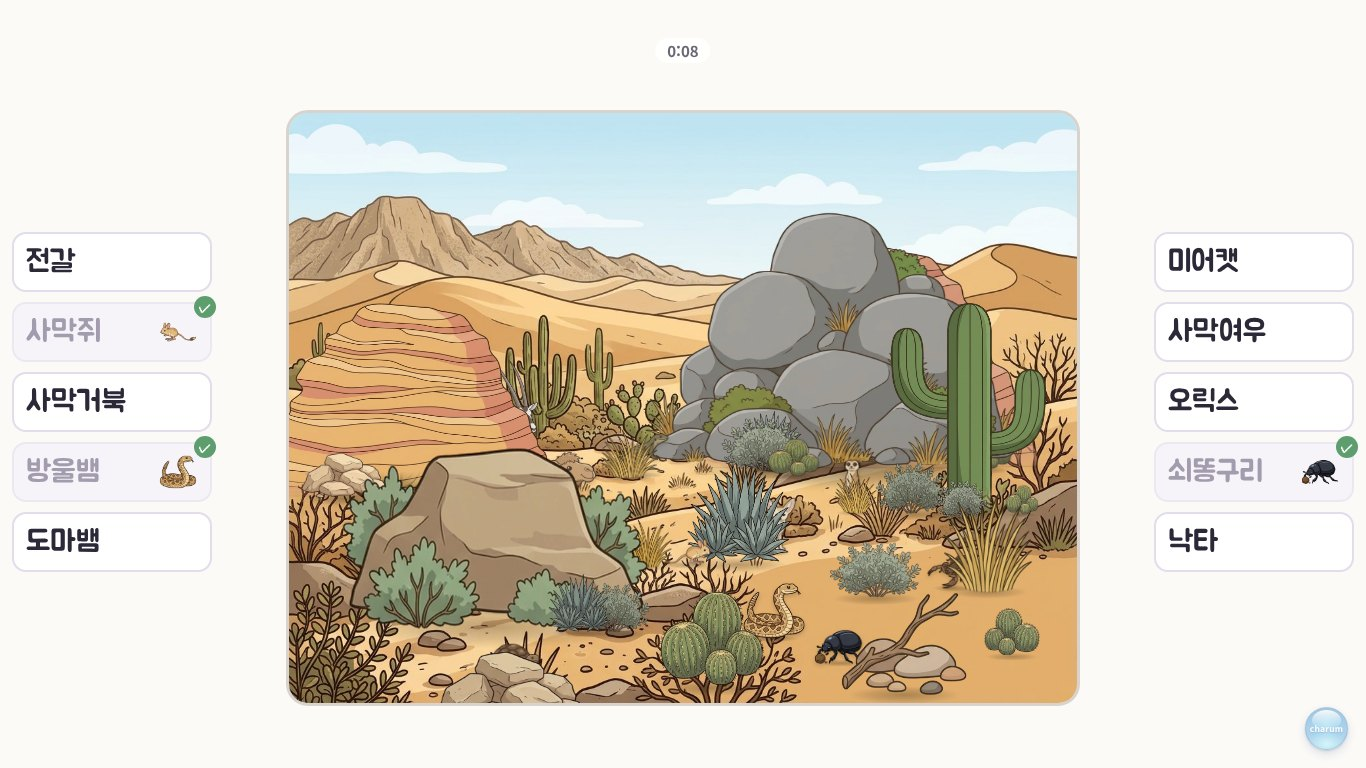
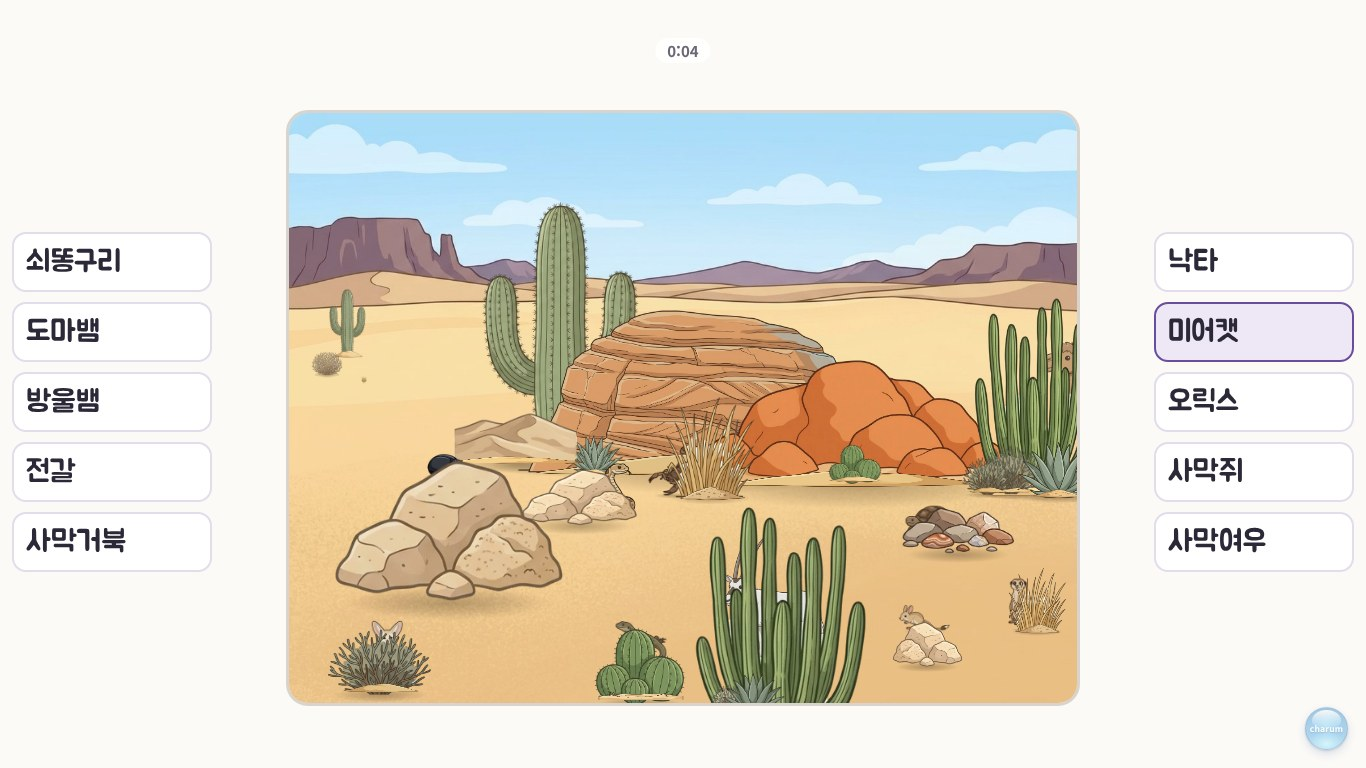
008 숨은 동물 찾기를 무대로 — 베타를 정식판에 합침, 캡처 07·08·14와 설명서 고침
선생님 결정(비영리라 바로 정식으로): 숨은 동물 찾기 장면을 무대(빈 배경 + 무대 요소 가림 소품 + 꾸밈·먼 띠 + 밑동 덮개)로 그리는 베타를 정식판에 그대로 옮김(제목의 '(베타)'만 뺌).
검사 node tools/hide-check.js 3: 완전히 가려짐 0%, 목표 안 97~99%.
캡처 07(보통 초원)·08(어려움 산)·14(스페셜)를 새로 찍고, 자세한 설명에 무대 장면 설명을 더함.

Claude-Session: https://claude.ai/code/session_01Wjm5odDztZjFxSTcCxJegg

diff --git a/008/animal-home_guide.html b/008/animal-home_guide.html
@@ -96,14 +96,15 @@ li{margin:3px 0}
 <p>묶음을 마치면 "숨은 동물 찾기" 알림이 나오고, 학생이 <b>시작</b>을 누르면 놀이가 시작됩니다. 사는 곳마다 큰 그림이 한 장씩 나오고, 오늘 배운 동물이 덤불·바위·구름·물풀 뒤에 숨어 있습니다. 같은 곳에 사는 동물은 한 장면에서 함께 찾습니다. 이름을 부르면 찾아 누릅니다.</p>
 <div class="two">
 <div><img src="https://shim-sung-hyun.github.io/web_app/008/animal-home06.jpg" alt="놀이 첫 화면"><p class="cap">▲ 놀이 첫 화면</p></div>
-<div><img src="https://shim-sung-hyun.github.io/web_app/008/animal-home07.jpg" alt="숨은 동물 찾기 보통"><p class="cap">▲ 보통(초원): 기린의 머리, 얼룩말·사자의 일부만 보임</p></div>
+<div><img src="https://shim-sung-hyun.github.io/web_app/008/animal-home07.jpg" alt="숨은 동물 찾기 보통"><p class="cap">▲ 보통(초원): 기린의 머리, 얼룩말·사자의 얼굴, 코끼리의 반쪽만 보임</p></div>
 </div>
+<p>장면은 빈 배경(하늘·먼 산·땅) 위에 나무·바위·풀을 하나씩 따로 그려 앞뒤 차례대로 쌓아 만듭니다(무대). 그래서 판마다 장면이 조금씩 달라지고, 가까운 것이 먼 것을 늘 바르게 가리며, 물건 밑동은 낙엽·모래·흙더미로 땅에 묻힌 듯 보입니다.</p>
 <table><tr><th>어렵기</th><th>모습</th></tr>
-<tr><td>쉬움(기본)</td><td>기본 장면 + 가림 소품이 아래만 가림. 동물이 절반 넘게 보이고, 찾을 동물만 숨어 있습니다.</td></tr>
-<tr><td>보통</td><td>숨을 곳이 많은 놀이용 장면. 소품이 아래나 옆을 가려 머리나 꼬리 쪽만 보입니다. 같은 곳에 사는 다른 동물 2~3마리와 빈 소품 1~2개가 함께 있습니다.</td></tr>
+<tr><td>쉬움(기본)</td><td>가림 소품이 아래만 가림. 동물이 절반 넘게 보이고, 찾을 동물만 숨어 있습니다.</td></tr>
+<tr><td>보통</td><td>숨을 곳이 더 많음. 소품이 아래나 옆을 가려 머리나 꼬리 쪽만 보입니다. 같은 곳에 사는 다른 동물 2~3마리와 빈 소품 1~2개가 함께 있습니다.</td></tr>
 <tr><td>어려움</td><td>귀·머리 끝이나 꼬리 같은 단서만 살짝 보이며, 빛깔도 장면에 조금 묻힙니다. 다른 동물 3~4마리가 함께 숨고 빈 소품도 3~4개 있어 유심히 살펴야 찾습니다.</td></tr></table>
 <img src="https://shim-sung-hyun.github.io/web_app/008/animal-home08.jpg" alt="숨은 동물 찾기 어려움">
-<p class="cap">▲ 어려움(산). 사슴·다람쥐·부엉이가 바위·덤불·나무 뒤에서 조금씩만 보입니다.</p>
+<p class="cap">▲ 어려움(산). 다람쥐·사슴·딱따구리가 바위·덤불·통나무·나뭇가지 뒤에서 조금씩만 보입니다.</p>
 <p>어렵기는 장면에서 <b>보이는 넓이</b>로 나눕니다(쉬움 > 보통 > 어려움). 동물 크기는 실제 크기에 맞추고, 가림 소품도 실제 높이에 맞춥니다(작은 돌로 낙타를 가리지 않음). 소품은 그 곳에 실제로 있는 것만 씁니다(사막에는 모래빛 바위·선인장, 갯벌에는 진흙 더미·조개무지 등).</p>
 <ul>
 <li>틀리게 눌러도 반응이 없고, 시간 제한도 없습니다. 이름은 한 번 부르고 기다립니다. 잘못 세 번 누르거나 12초가 지나면 한 번 더 부릅니다(같은 이름을 계속 되풀이하면 재촉받는 듯 불안해지므로). 18초가 지나면 동물이 소품 뒤에서 조금 나오고, 24초부터는 10초마다 동물을 가린 소품이 바스락 소리와 함께 살짝 흔들리며, 32초에 더 나옵니다.</li>

diff --git a/008/animal-home-beta.html b/008/animal-home-beta.html
@@ -601,7 +601,7 @@ body.setup #adminBtn{display:none}
    장면 그림: media/habitats (동물 없이 장소만). 앱 안의 자료는 GitHub 절대 주소로 */
 const GH='https://shim-sung-hyun.github.io/web_app/';
 const P007=GH+'media/words/', PNEW=GH+'media/animals/', HAB=GH+'media/habitats/';
-/* 무대(2026-11-04 베타, 공통 모듈 stagekit — 앱에 id="stage" 칸이 있어 모듈 칸 이름을 stagekit으로): 숨은 동물 찾기 장면을 '빈 배경 + 따로 그린 요소'로 만듦(media/stage/README.txt).
+/* 무대(2026-11-04, 공통 모듈 stagekit — 앱에 id="stage" 칸이 있어 모듈 칸 이름을 stagekit으로): 숨은 동물 찾기 장면을 '빈 배경 + 따로 그린 요소'로 만듦(media/stage/README.txt).
    가림 소품은 무대 요소(media/stage/hide-index.json, tools/stage-index.py), 숨기기 규칙(보이는 넓이·ZONE·FACE)은 그대로.
    동물·소품과 겹치지 않는 자리에 무대 꾸밈(나무·바위 덩어리·먼 띠)을 더하고, 소품 아랫단을 흐리게 하던 것 대신 밑동 덮개(낙엽·흙더미·모래)를 덮음.
    하늘은 가림 소품이 가지·꽃이라 옛 장면 그대로. 강·호수 물낯 높이는 무대 stage.json 의 waterline */

diff --git a/docs/guidelines.md b/docs/guidelines.md
@@ -23,7 +23,7 @@
 - 어미: 설명서·보고 "~니다", 학생에게 하는 말·짧은 안내 "~요". 앱을 만든 선생님은 **"제작자"**.
 - **세션 나누기**: 따로 총괄 세션을 두지 않는다. 이 지침이 총괄이다. 앱 하나는 그 앱을 맡은 세션에서 고치고, 여러 앱에 걸친 일(공통 모듈·공용 자료·서버)은 선생님이 필요할 때 새 세션에 맡긴다. 어느 세션이든 공통 사항은 이 지침을 따르고, 바꾸면 이 지침도 고친다.
 - **공통 모듈**(2026-11-02 선생님 결정): 원본은 `common/이름.js` 한 곳, 앱에는 `<script id="이름">` 칸에 `python3 tools/sync-modules.py`로 복사해 넣는다(앱은 그대로 HTML 한 파일 — 공용 파일을 불러 쓰면 하나 잘못돼도 모든 앱이 수업 중에 멈추므로). 앱 안의 모듈 칸은 손으로 고치지 않음. 모듈은 동작만, 얼굴(단추 class·색·글꼴)은 앱이 넘겨 줌. 지금 `common/`에 있는 것: `roster`(학생 명단). 앞으로 옮길 것: 기록 저장·CSV, 멈춘 곳, 말하기(전체 화면 뒤), 진행 표시, 그리고 지금 복사해 쓰는 adminGate·reportLink·endLesson·printFit·holdBubble·keyRelay·photoRelay. 설정 화면을 모듈로 묶기(모양만이라도)는 실익이 적어 하지 않음(2026-11-04 선생님 결정) — 여러 앱의 설정 화면을 한꺼번에 고치느라 일이 거듭 꼬일 때만 다시 제안.
-- **무대(stage)**(2026-11-03·04 선생님 결정): 장면은 **배경 · 대상 · 앞가림을 따로 그려 겹친다**(만화영화 셀처럼). 한 장에 다 그려 받지 않는다(대상만 바꾸거나 움직일 수 없음). 대상은 투명 바탕·밑동 반듯, 발밑 옅은 그림자는 프로그램이 그림(모두 같은 방향·진하기), 앞가림 띠(풀·물결)가 대상의 아랫부분을 살짝 덮어 "그 안에 있는" 느낌. 쌓는 차례는 밑동이 아래(가까운 것)일수록 위, 먼 것은 작고 옅게, 요소는 덩어리로 놓고 빈 땅을 남김. 다시 그려야 하면 옛 그림을 고쳐 쓰지 말고 과감히 새로 받는다. 모양도 자연에서처럼: 쌓이는 것(바위·얼음·모래)은 펑퍼짐하게 퍼지며 높아지고 밑동 앞에 풀·작은 돌이 모이게, 벽돌·정육면체처럼 사람이 쌓은 꼴은 피함. 원본은 `common/stagekit.js`·`media/stage/<갈래>/<장소>/`(갈래 nature·town·school·home·public·_common, 차림표 `media/stage/index.json`), 앱은 가져다 씀. 무대 전담 세션이 맡고 자세한 것은 `media/stage/README.txt`. 008부터 씀.
+- **무대(stage)**(2026-11-03·04 선생님 결정): 장면은 **배경 · 대상 · 앞가림을 따로 그려 겹친다**(만화영화 셀처럼). 한 장에 다 그려 받지 않는다(대상만 바꾸거나 움직일 수 없음). 대상은 투명 바탕·밑동 반듯, 발밑 옅은 그림자는 프로그램이 그림(모두 같은 방향·진하기), 앞가림 띠(풀·물결)가 대상의 아랫부분을 살짝 덮어 "그 안에 있는" 느낌. 쌓는 차례는 밑동이 아래(가까운 것)일수록 위, 먼 것은 작고 옅게, 요소는 덩어리로 놓고 빈 땅을 남김. 다시 그려야 하면 옛 그림을 고쳐 쓰지 말고 과감히 새로 받는다. 모양도 자연에서처럼: 쌓이는 것(바위·얼음·모래)은 펑퍼짐하게 퍼지며 높아지고 밑동 앞에 풀·작은 돌이 모이게, 벽돌·정육면체처럼 사람이 쌓은 꼴은 피함. 원본은 `common/stagekit.js`·`media/stage/<갈래>/<장소>/`(갈래 nature·town·school·home·public·_common, 차림표 `media/stage/index.json`), 앱은 가져다 씀. 무대 전담 세션이 맡고 자세한 것은 `media/stage/README.txt`. 008 숨은 동물 찾기가 처음 씀(2026-11-04 정식판).
 - **버릴 자료 상자 `_trash/`**(2026-11-04 선생님 결정): 안 쓰게 된 그림·파일은 바로 지우지 않고 `python3 tools/trash.py 경로 --why "이유"`로 `_trash/<날짜>/`에 옮긴다(원래 자리·이유가 WHY.txt에 남음). 3개월(90일)이 지나면 `python3 tools/trash.py --empty`로 비운다. 세션을 시작할 때 `python3 tools/trash.py`를 한 번 돌려 비울 때가 된 것이 있으면 비우고 커밋. 앱에서 아직 부르는 파일은 넣지 않음(넣은 뒤 `python3 tools/check-files.py`로 확인).
 - **같은 뼈대, 다른 얼굴**: 쓰는 법이 같아야 하는 것만 모든 앱이 똑같이(관리 버튼·메뉴, 수업 끝내기, 오류 알리기, 출력, 진행 표시 자리, 터치, 소리 끄기, 제목 체계, 교육 원칙). 바탕 무늬·번호 꼴·제목 옆 표시·보상 모양·화면 구성은 앱마다 다르게. 새 앱이 기존 앱을 그대로 베끼면 "이 앱만의 것"을 제안한다.
 - **그림 프롬프트는 통째로**(2026-11-04 선생님 결정): Gemini 등에 건넬 프롬프트는 그림 한 장마다 그대로 복사해 붙이면 끝나는 완성된 글로 만든다. "공통 글 + 그 장의 글"처럼 나눠 두고 선생님이 합쳐 붙이게 하지 않는다(같은 글이 장마다 되풀이돼도 됨). 장마다 번호 · 붙일 본보기 그림 · 받은 그림이 들어갈 자리를 한국어로 적고, 복사할 곳은 ▼~▲로 표시.
